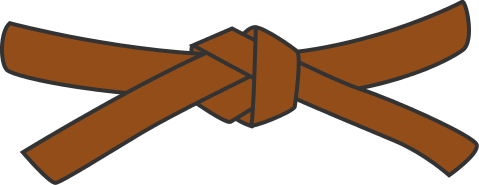
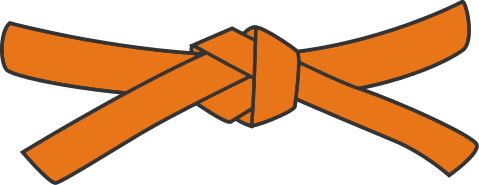
ceinture image

diff --git a/index.html b/index.html
@@ -18,28 +18,28 @@
   </head>
 
   <body>
-<div class="container">
+<div class="container" >
     <nav class="navbar navbar-toggleable-md navbar-inverse fixed-bottom">
       <button class="navbar-toggler navbar-toggler-right" type="button" data-toggle="collapse" data-target="#navbarsExampleDefault" aria-controls="navbarsExampleDefault" aria-expanded="false" aria-label="Toggle navigation">
         <span class="navbar-toggler-icon"></span>
       </button>
 
-      <div class="collapse navbar-collapse" id="navbarsExampleDefault">
+      <div class="collapse navbar-collapse" id="navbarsExampleDefault" style="margin-bottom: 50px;">
         <ul class="navbar-nav mr-auto ">
           <li class="nav-item active col">
-            <a class="nav-link" href="#"><img style='width: 145px; height: 50px;' src="belt.png"></br>Accueil <span class="sr-only">(current)</span></a>
+            <a class="nav-link" href="#"><img style='width: 125px; height: 40px;' src="orange.png"></br>Accueil <span class="sr-only">(current)</span></a>
           </li>
           <li class="nav-item col">
-            <a class="nav-link" href="#"><img style='width: 145px; height: 50px;' src="belt.png"></br>Karaté</a>
+            <a class="nav-link" href="#"><img style='width: 125px; height: 40px;' src="bleu.png"></br>Karaté</a>
           </li>
           <li class="nav-item col">
-            <a class="nav-link" href="#"><img style='width: 145px; height: 50px;' src="belt.png"></br>Club</a>
+            <a class="nav-link" href="#"><img style='width: 125px; height: 40px;' src="jaune.png"></br>Club</a>
           </li>
          <li class="nav-item col">
-            <a class="nav-link" href="#"><img style='width: 145px; height: 50px;' src="belt.png"></br>Gallerie</a>
+            <a class="nav-link" href="#"><img style='width: 125px; height: 40px;' src="vert.png"></br>Gallerie</a>
           </li>
           <li class="nav-item col">
-            <a class="nav-link" href="#"><img style='width: 145px; height: 50px;' src="belt.png"></br>Contact</a>
+            <a class="nav-link" href="#"><img style='width: 125px; height: 40px;' src="bruin.png"></br>Contact</a>
           </li>
         </ul>
       </div>
